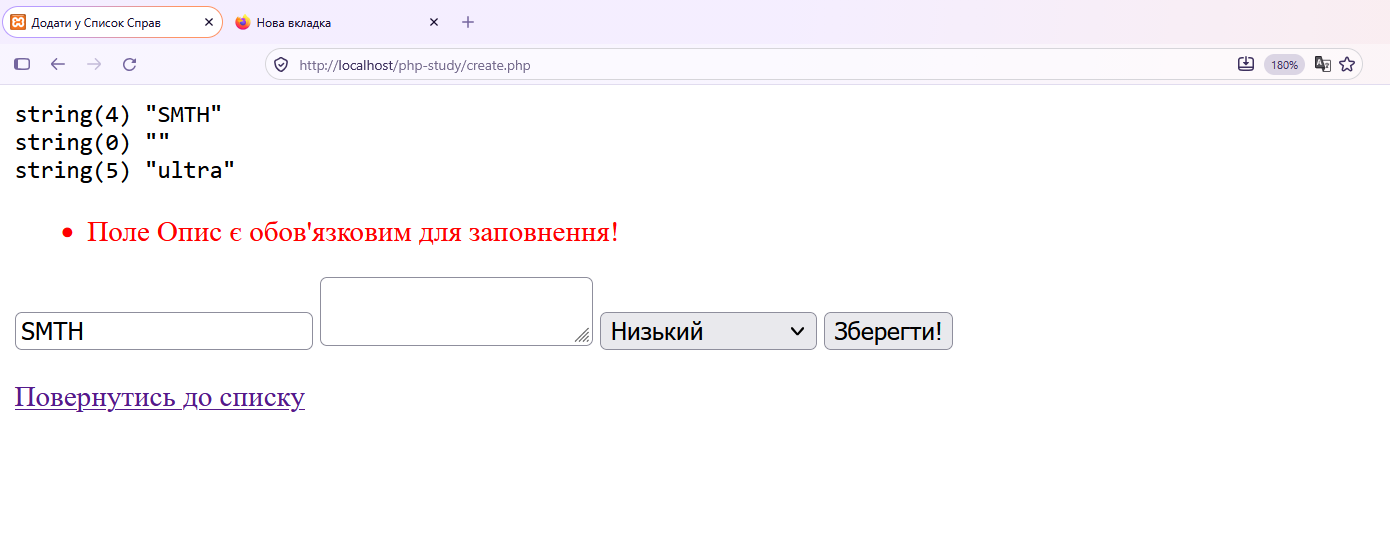
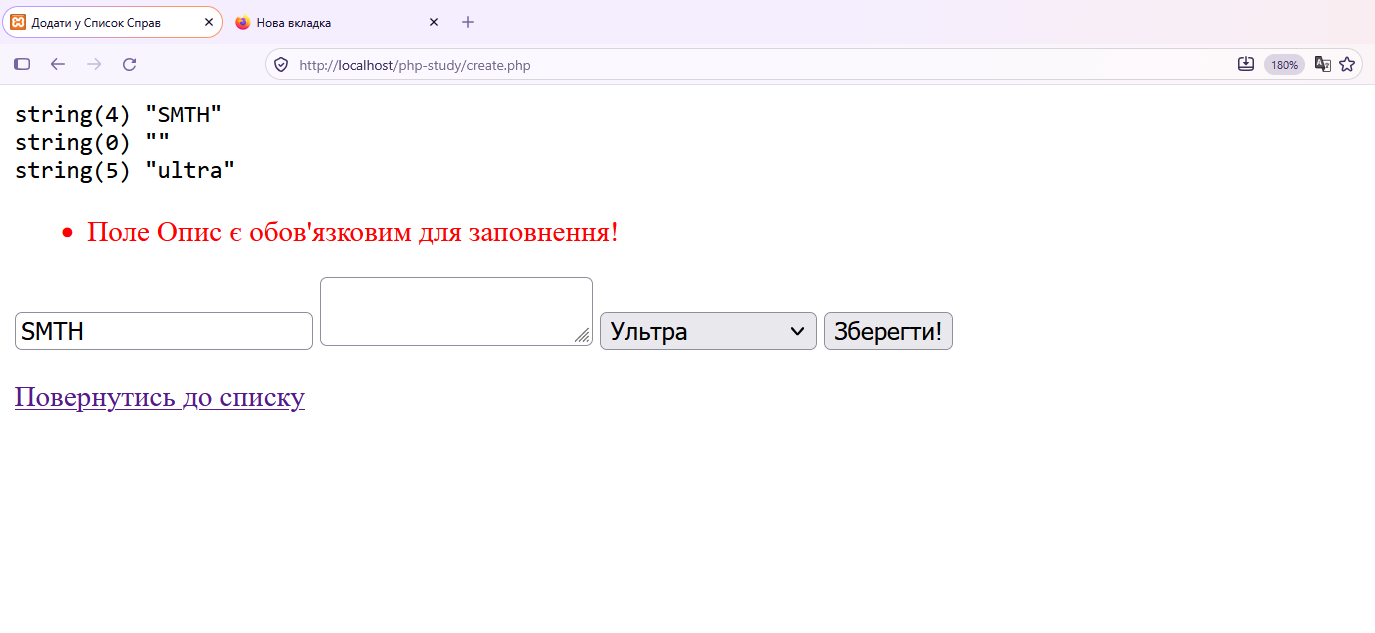
six seven final

diff --git a/create.php b/create.php
@@ -24,6 +24,7 @@ if ($_SERVER['REQUEST_METHOD'] === 'POST') {
     <style>
         .alert {
             color: red;
+            text-decoration: none;
         }
     </style>
 </head>
@@ -41,11 +42,11 @@ if ($_SERVER['REQUEST_METHOD'] === 'POST') {
         <input type="text" name="title" value="<?php if (!empty($errors)):?><?= $title ?? "" ?><?php endif; ?>">
         <textarea name="description"><?php if (!empty($errors)):?><?= $description ?? "" ?><?php endif; ?></textarea>
         <select name="priority">
-            <option value="low">Низький</option>
-            <option value="medium">Середній</option>
-            <option value="high">Високий</option>
-            <option value="ultra">Ультра</option>
-            <option value="maximum">Максимальний</option>
+            <option value="low" <?= ($priority ?? 'low') === 'low' ? 'selected' : '' ?> >Низький</option>
+            <option value="medium" <?= ($priority ?? 'medium') === 'medium' ? 'selected' : '' ?> >Середній</option>
+            <option value="high" <?= ($priority ?? 'high') === 'high' ? 'selected' : '' ?> >Високий</option>
+            <option value="ultra" <?= ($priority ?? 'ultra') === 'ultra' ? 'selected' : '' ?> >Ультра</option>
+            <option value="maximum" <?= ($priority ?? 'maximum') === 'maximum' ? 'selected' : '' ?> >Максимальний</option>
         </select>
         <button type="submit">Зберегти!</button>
     </form>

diff --git a/lab7.md b/lab7.md
@@ -70,7 +70,7 @@ if ($_SERVER['REQUEST_METHOD'] === 'POST') {
 
 Функція `htmlspecialchars()` захищає від атак типу XSS і псування структури сайту. Вона перетворює спеціальні символи розмітки на безпечний текст: наприклад, знак "менше" перетворюється на спецсимвол для браузера, а лапки стають безпечними сутностями.
 
-Без цієї функції будь-який відвідувач може надіслати в коментарях або імені профлю такий текст:
+Без цієї функції будь-який відвідувач може надіслати в коментарях або імені профілю такий текст:
 `</div><script>alert('404')</script>`
 
 Якщо вивести цей текст на сторінку напряму, закриваючий тег передчасно розірве розмітку вашого сайту і верстка "попливе", а браузер спробує виконати скрипт усередині. Завдяки `htmlspecialchars()` цей код відобразиться на екрані просто як звичайні друковані літери і буде безпечним.

diff --git a/lab6.md b/lab6.md
@@ -24,7 +24,7 @@
 
 ![Фото для звіту](screenshot6_0.png)
 
-_Після відправки форми методом GET дані з'явились в адресному рядку у вигляді `create.php?title=...&description=...&priority=....` Масив `$_POST` порожній, бо дані лежать у `$_GET`._
+_Після відправки форми методом GET дані з'явились в адресному рядку у вигляді `create.php?title=...&description=...&priority=...` Масив `$_POST` порожній, бо дані лежать у `$_GET`._
 
 ## Фото з POST
 
